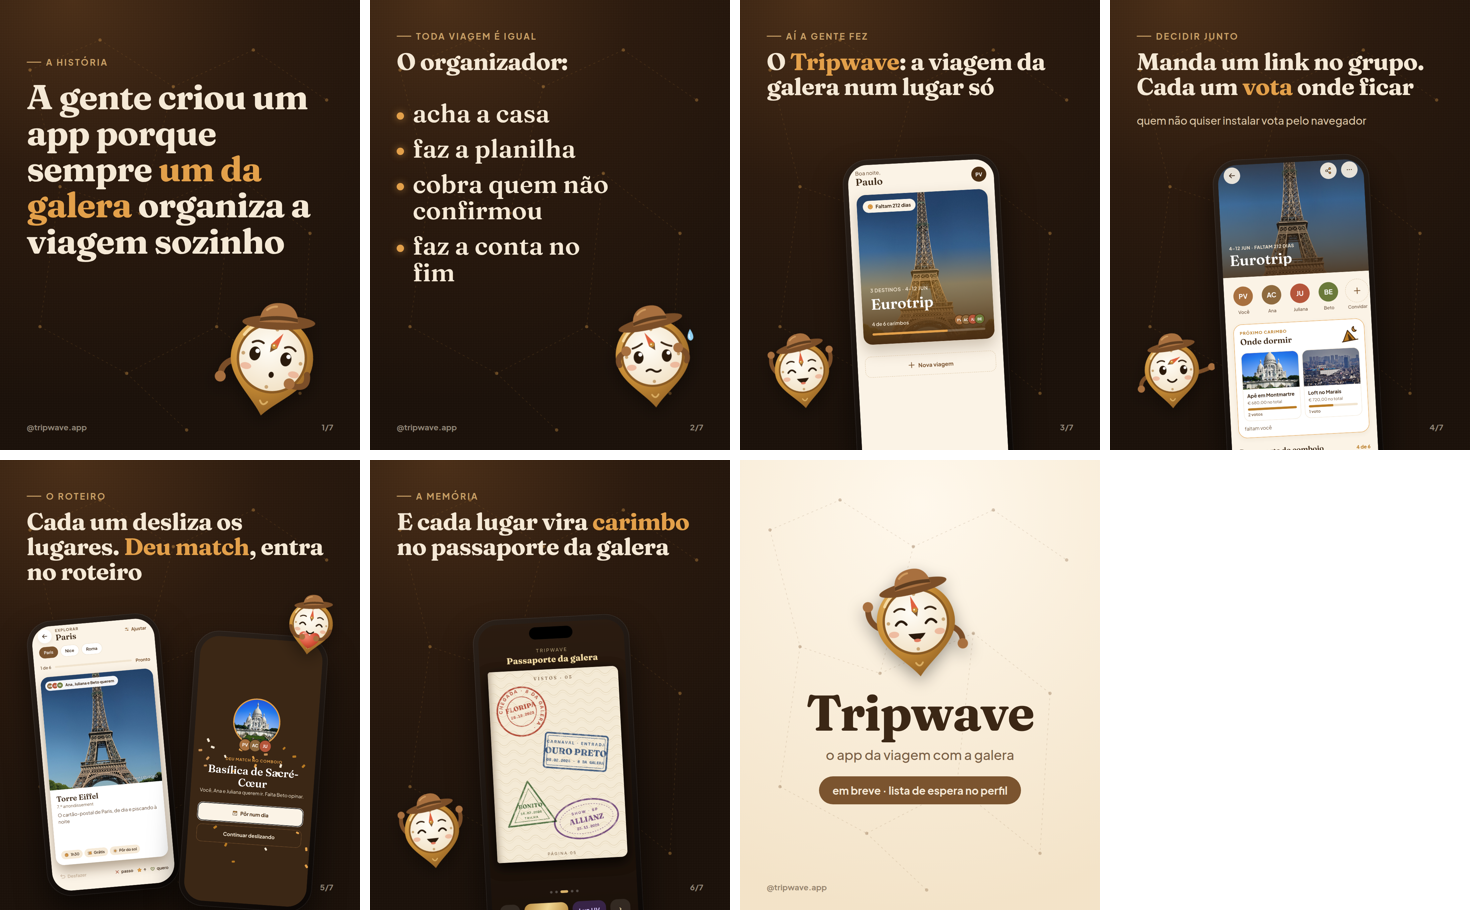
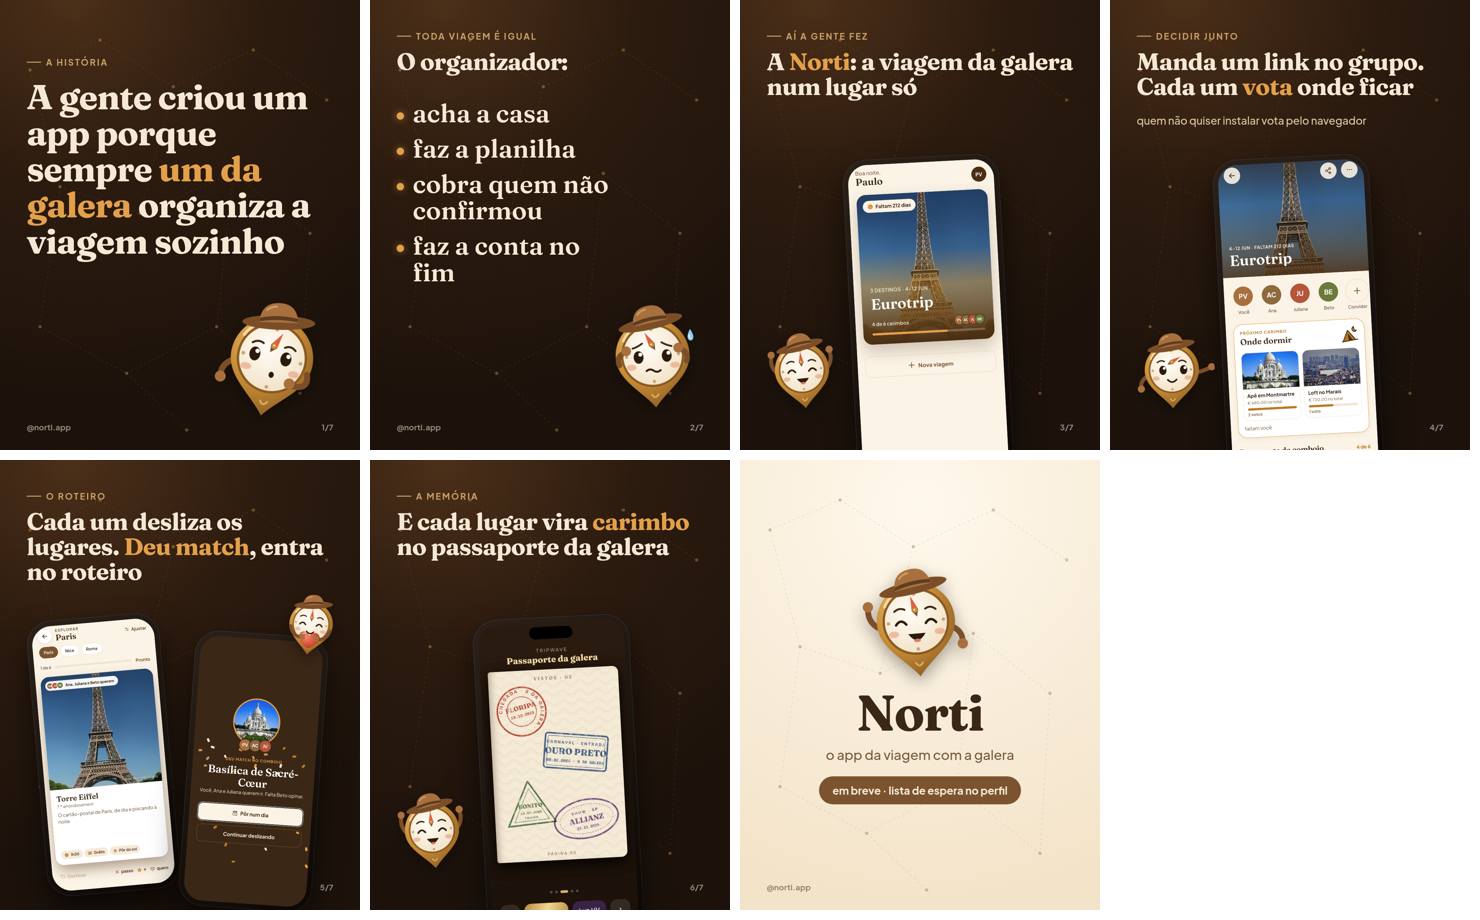
Nome novo do app: Norti (igual à mascote). Decisão no NOME-E-VOZ, AGENTS, bios, posts e carrosséis C0 e C1

diff --git a/docs/marketing/APRESENTAR-O-APP.md b/docs/marketing/APRESENTAR-O-APP.md
@@ -1,13 +1,13 @@
-# Posts que apresentam o Tripwave (estilo Loopou)
+# Posts que apresentam a Norti (estilo Loopou)
 
 *04/11/2026. Pedido do Victor: além dos vídeos do passaporte, posts que **apresentem e expliquem o app inteiro**, como faz o Instagram da Loopou (@loopou.ig), outro projeto da dupla. O passaporte entra como **uma** das funções, não como o centro. Segue o `docs/RUMO.md` e o tom de voz de `NOME-E-VOZ.md`. **Rascunho pra aprovar antes de produzir qualquer arte.***
 
 
 > **Formato agora (Victor, 04/11/2026): só foto e carrossel.** Vídeo fica pra depois. Os Reels (R1 a R4) estão guardados no fim deste arquivo; a história de origem virou o carrossel **C0**.
 
-## 1. O que a Loopou faz, traduzido pro Tripwave
+## 1. O que a Loopou faz, traduzido pra Norti
 
-| Padrão da Loopou | Exemplo dela | No Tripwave |
+| Padrão da Loopou | Exemplo dela | Na Norti |
 |---|---|---|
 | **Fundadores contando a história de origem** (sem rosto: voz + tela) | "Meu marido criou uma ferramenta que resolve uma parte chata de vender pelo Instagram" | "[relação] criou um app porque eu cansei de organizar a viagem da galera sozinha." A história real da dupla: quem organiza sempre, e o dev que resolveu. |
 | **Gancho de descoberta ou segredo (UGC)** | "Parei de pagar Manychat depois que descobri esse site" | "Parei de fazer planilha de viagem depois que descobri esse app." "Ninguém tá falando desse app de viagem com os amigos." |
@@ -26,7 +26,7 @@
 
 ---
 
-## 2. O que o Tripwave faz (a lista pra usar nos posts)
+## 2. O que a Norti faz (a lista pra usar nos posts)
 
 Na ordem em que a galera vive a viagem:
 
@@ -39,7 +39,7 @@ Na ordem em que a galera vive a viagem:
 7. **Fotos do grupo** num lugar só.
 8. **Passaporte da galera:** cada lugar vira carimbo, o mapa do grupo acende e a retrospectiva sai pronta pra postar.
 
-**Frase de apresentação (curta):** "O Tripwave é o app da viagem com a galera: do 'bora?' até o carimbo no passaporte do grupo."
+**Frase de apresentação (curta):** "A Norti é o app da viagem com a galera: do 'bora?' até o carimbo no passaporte do grupo."
 
 ---
 
@@ -50,14 +50,14 @@ Na ordem em que a galera vive a viagem:
 **C0. "A história" (a origem, o post fixado)** (7 slides)
 1. Capa: "A gente criou um app porque sempre um da galera organiza a viagem sozinho" + Norti.
 2. "Acha a casa. Faz a planilha. Cobra a confirmação. Faz a conta no fim."
-3. "Aí a gente fez o Tripwave."
+3. "Aí a gente fez a Norti."
 4. "Manda um link no grupo. Cada um vota onde ficar e o que fazer, sem instalar nada." + print do convite e do duelo de casas.
 5. "O roteiro sai dos votos. Os gastos se dividem sozinhos." + print do roteiro do dia.
 6. "E cada lugar vira carimbo no passaporte da galera." + passaporte com carimbos.
 7. "Em breve. Lista de espera no perfil." + Norti acenando.
 
-**C1. "O que é o Tripwave?"** (7 slides)
-1. Capa: "O que é o Tripwave?" + Norti acenando.
+**C1. "O que é a Norti?"** (7 slides)
+1. Capa: "O que é a Norti?" + Norti acenando.
 2. "O app da viagem com a galera: do 'bora?' até o carimbo no passaporte."
 3. "1. Manda um link. Todo mundo topa sem instalar."
 4. "2. Cada um desliza os lugares. Deu match, entra no roteiro."
@@ -68,7 +68,7 @@ Na ordem em que a galera vive a viagem:
 **C2. "Sua galera ainda decide a viagem num grupo com 300 mensagens?"** (5 slides)
 1. A pergunta, grande.
 2. "O link da casa se perde. A enquete ninguém responde."
-3. "No Tripwave cada um vota em 1 toque, e o grupo vê o placar."
+3. "Na Norti cada um vota em 1 toque, e o grupo vê o placar."
 4. Print do duelo de casas com os votos.
 5. "Em breve. Lista de espera no perfil."
 
@@ -84,23 +84,23 @@ Na ordem em que a galera vive a viagem:
 2. "Você acha a casa."
 3. "Você cobra a confirmação."
 4. "Você faz a conta no fim."
-5. "No Tripwave a galera vota, o roteiro sai dos votos e a conta se faz sozinha."
+5. "Na Norti a galera vota, o roteiro sai dos votos e a conta se faz sozinha."
 6. "E você ganha o passaporte de todas as viagens de vocês." + passaporte.
 
 ### Comparação
 
-**K1. "Grupo do zap x Tripwave"** (carrossel: cada slide é uma linha da tabela, com o caos à esquerda e o app à direita)
-| Grupo do zap | Tripwave |
+**K1. "Grupo do zap x Norti"** (carrossel: cada slide é uma linha da tabela, com o caos à esquerda e o app à direita)
+| Grupo do zap | Norti |
 |---|---|
 | 40 links de casa perdidos | As casas lado a lado, com votos |
 | Enquete que ninguém responde | Voto em 1 toque, até sem instalar |
 | Planilha no fim | "jantar 84" e pronto |
 | As fotos espalhadas | Fotos e passaporte do grupo |
 
-**K2. "Planilha, Splitwise e Tripwave"** (carrossel)
+**K2. "Planilha, Splitwise e Norti"** (carrossel)
 - "Planilha: dá trabalho e só uma pessoa mexe."
 - "Splitwise: divide a conta, mas não decide a viagem. E o grátis limita quantos gastos por dia." *(Conferir o limite atual antes de postar: na pesquisa as fontes dão de 3 a 4 por dia.)*
-- "Tripwave: decide, organiza, divide e guarda a viagem no passaporte da galera."
+- "Norti: decide, organiza, divide e guarda a viagem no passaporte da galera."
 - **Cuidado:** não usar a logo do Splitwise. Só o nome e um fato que dá pra conferir.
 
 ### Série com número real
@@ -108,7 +108,7 @@ Na ordem em que a galera vive a viagem:
 **E1. "Do 0 ao primeiro grupo viajando, episódio 1"** (carrossel de 4 slides, toda semana)
 - **Slide 1:** "Do 0 ao primeiro grupo viajando com o nosso app · episódio 1"
 - **Slides 2 a 4:**
-  > Hoje o Tripwave tem [N] pessoas na lista de espera e [N] grupos testando.
+  > Hoje a Norti tem [N] pessoas na lista de espera e [N] grupos testando.
   > Essa semana a gente [1 coisa que fez] e [1 coisa que deu errado].
   > Semana que vem: [1 meta].
 - **Regra:** só número verdadeiro, mesmo se for pequeno. A Loopou começou com "13 clientes ativos".
@@ -118,7 +118,7 @@ Na ordem em que a galera vive a viagem:
 
 ## 4. Por onde começar (sugestão)
 
-1. **C0 ("A história")** fixado no perfil e **C1 ("O que é o Tripwave?")** como o 2º post. São os dois que explicam o app pra quem chega no perfil.
+1. **C0 ("A história")** fixado no perfil e **C1 ("O que é a Norti?")** como o 2º post. São os dois que explicam o app pra quem chega no perfil.
 2. **E1, episódio 1** no mesmo dia, no Instagram e no X.
 3. Depois, 1 carrossel de dor (C2, C3, C4) e 1 comparação (K1, K2) por semana.
 
@@ -142,7 +142,7 @@ Na ordem em que a galera vive a viagem:
   > Aí [ele/ela] fez isso aqui. *(a tela do app aparece)*
   > Eu mando um link no grupo, cada um vota onde quer ficar e o que quer fazer, e no fim tá tudo num lugar só.
   > E ainda fica um passaporte da galera com todas as viagens que a gente fez.
-  > Chama Tripwave. Tá saindo. Lista de espera no perfil.
+  > Chama Norti. Tá saindo. Lista de espera no perfil.
 - **Imagem:** o grupo do zap explodindo de mensagens → a mão segurando o celular com o app organizado (só a mão ou a tela gravada) → o passaporte abrindo com os carimbos. A Norti aparece no canto reagindo e acena no fim.
 
 **R2. "Parei de fazer planilha de viagem"**

diff --git a/docs/marketing/NOME-E-VOZ.md b/docs/marketing/NOME-E-VOZ.md
@@ -1,8 +1,31 @@
 # Nome e tom de voz
 
-*02/11/2026. Triagem inicial feita pelo Claude. **Nada aqui confirma que um nome está livre**: veja "Checagens obrigatórias" no fim.*
+*02/11/2026, atualizado em 04/11/2026 (nome novo: Norti). Triagem inicial feita pelo Claude. **Nada aqui confirma que um nome está livre**: veja "Checagens obrigatórias" no fim.*
 
-## ✅ Decisão: **Tripwave**
+## ✅ Decisão: **Norti** (04/11/2026)
+
+O app passa a ter **o nome da mascote**, como o Duolingo e o Duo. Decidido pelo Victor em 04/11/2026, depois que o rumo do produto virou o **Passaporte da galera** (`docs/RUMO.md`): uma bússola chamada Norti, de "norte", combina com passaporte, mapa e carimbo. O Tripwave valeu de 02 a 04/11 e ainda aparece nos docs antigos.
+
+**Como escrever:** "a Norti", no feminino, tanto pra mascote quanto pro app (a personagem *é* o app). Ex.: "baixa a Norti", "a Norti carimbou Paraty".
+
+**Triagem do Norti (NÃO CONFIRMADA, checada em 04/11/2026):**
+
+| Item | Situação |
+|---|---|
+| App Store | Nenhum app com o nome |
+| norti.com, norti.com.br | **têm DNS (provavelmente ocupados)** |
+| norti.app, getnorti.com, nortiapp.com, norti.travel | sem DNS (podem estar livres) |
+| @ nas redes | **não conferido** |
+| INPI | **não conferido** (classes 9, 39, 42) |
+| Inglês britânico | soa como "naughty" (levado). Pro Brasil não pesa |
+
+**@ sugeridos:** `@nortiapp` no X (o X não aceita ponto) e `@norti.app` no Instagram e no TikTok, batendo com o domínio **norti.app**. Ficar de olho no norti.com.br pra comprar quando der.
+
+**O que fica igual:** os nomes internos "together" (pacote, chaves, link do app, endereço da Vercel) e o repositório Triply. Trocar o nome que aparece no app e no site (título, ícone, loja) é tarefa de uma sessão de dev.
+
+---
+
+## Antes: **Tripwave** (02 a 04/11/2026)
 
 Escolhido pela dupla em 02/11/2026, depois de 6 rodadas (histórico abaixo).
 
@@ -237,4 +260,4 @@ A ideia: o app ter o nome da bússola, como o Duolingo e o Duo. O mascote vira a
 
 **Descartados:** Nori (9 apps, uma marca de viagem com o nome), Navi (6 apps, um de viagem), Compi (app de viagem com o nome), Norte (app de cartão de crédito), TrueNorth, Polo, Rosa, Needle, Sola. **Bussy** e "Bussi": em inglês é gíria vulgar.
 
-**Status:** em discussão. Tripwave continua sendo o nome até a dupla decidir.
+**Status:** ✅ **decidido em 04/11/2026: Norti** (ver o topo deste arquivo).

diff --git a/docs/HANDOFF-marketing.md b/docs/HANDOFF-marketing.md
@@ -1,4 +1,4 @@
-# HANDOFF: marketing do Tripwave
+# HANDOFF: marketing da Norti (antes Tripwave)
 
 *02/11/2026. Sessão de marketing (sem código: código e banco ficam com as sessões de dev).*
 
@@ -30,6 +30,8 @@
 - Quadro de design da Norti: https://claude.ai/artifact/GU32RoWEYJWRyuM8t1hCoP (sem cópia no repo: salvar o HTML em `docs/marketing/` antes de apagar)
 
 ## Pendente
+
+000000. **04/11/2026: o app se chama NORTI** (igual à mascote; decisão do Victor, registrada no topo de `NOME-E-VOZ.md`). Escrever "a Norti" no feminino pro app também. Já trocados: bios e posts (`CONTEUDO-PASSAPORTE.md`, `APRESENTAR-O-APP.md`), carrosséis C0 e C1 (gerados de novo) e AGENTS.md. Docs antigos ainda dizem Tripwave (histórico). **A fazer:** a dupla registra **norti.app** (+ getnorti.com), confere e cria **@nortiapp** (X) e **@norti.app** (Instagram e TikTok) e busca "Norti" no INPI; **sessão de dev** troca o nome que aparece no app e no site (título, ícone, loja, texto "Tripwave" nas telas e no protótipo `teste/ancora/passaporte.html`), sem mexer nos nomes internos "together".
 
 00000. **04/11/2026: C0 ("A história") e C1 ("O que é o Tripwave?") prontos pra aprovar**, 7 slides cada, 1080×1350, em `slides/saida/C0` e `C1` (prévia em `previa.png`). Visual do vídeo do app: fundo de couro com mapa de rota, título com palavra em destaque, celular com tela real e Norti. Gerador: `node docs/marketing/slides/apresentar.mjs C0` (os textos ficam no próprio arquivo). As telas vêm de `docs/marketing/video/gravacoes/telas/`, que não vai pro git: pra gerar de novo, subir o Expo web na 8089 e rodar `node telas.mjs` dentro de `docs/marketing/video` (modo demonstração, sem banco). As páginas do passaporte são do protótipo `teste/ancora/passaporte.html`.
 

diff --git a/docs/marketing/CONTEUDO-PASSAPORTE.md b/docs/marketing/CONTEUDO-PASSAPORTE.md
@@ -20,11 +20,11 @@ Agora o produto **é um objeto que dá vontade de postar**: o passaporte com os 
 
 | Rede | Bio | Caracteres |
 |---|---|---|
-| X `@tripwaveapp` | `O passaporte da sua galera: cada viagem e rolê vira carimbo e o mapa do grupo acende. Feito por uma dupla, em público. Em breve 🧭` | 129/160 |
-| Instagram `@tripwave.app` | `O mapa das viagens e rolês da sua galera 🧭` / `Cada lugar vira carimbo no passaporte do grupo.` / `Entra na lista 👇` | 107/150 |
-| TikTok `@tripwave.app` | `Quantos lugares sua galera já carimbou? 🧭` | 41/80 |
+| X `@nortiapp` | `O passaporte da sua galera: cada viagem e rolê vira carimbo e o mapa do grupo acende. Feito por uma dupla, em público. Em breve 🧭` | 129/160 |
+| Instagram `@norti.app` | `O mapa das viagens e rolês da sua galera 🧭` / `Cada lugar vira carimbo no passaporte do grupo.` / `Entra na lista 👇` | 107/150 |
+| TikTok `@norti.app` | `Quantos lugares sua galera já carimbou? 🧭` | 41/80 |
 
-**Nome no Instagram:** Tripwave | passaporte da galera.
+**Nome no Instagram:** Norti | passaporte da galera.
 
 ---
 
@@ -49,7 +49,7 @@ Feitos por código, com a mesma máquina do vídeo do app (`docs/marketing/video
 
 ## 3. X (build in public)
 
-Valem as lições do X: número verdadeiro na 1ª linha, bastidor que dá pra salvar, o processo virando post. Do Victor e da Ingryd, com o `@tripwaveapp` repostando.
+Valem as lições do X: número verdadeiro na 1ª linha, bastidor que dá pra salvar, o processo virando post. Do Victor e da Ingryd, com o `@nortiapp` repostando.
 
 **X1 (a virada, o melhor post que temos):**
 > ontem a gente mudou o app inteiro

diff --git a/AGENTS.md b/AGENTS.md
@@ -1,4 +1,4 @@
-# AGENTS.md — Tripwave
+# AGENTS.md — Norti
 
 Regras pra qualquer assistente de IA (Claude Code, Cursor, Codex) que trabalhar neste projeto.
 
@@ -148,5 +148,5 @@ Cada passo de uma conversa longa reprocessa o histórico inteiro: é o que mais 
 - Concorrentes: `docs/benchmark.md`
 - Glossário pra Ingryd: `docs/glossario.md`
 - Guia "como pedir coisas pro Claude": `docs/COMO-TRABALHAR.md`
-- O nome do produto é **Tripwave** (decidido em 02/11/2026; antes foi "Triply" e "Together"). Ver `docs/marketing/NOME-E-VOZ.md`.
+- O nome do produto é **Norti**, igual à mascote (decidido em 04/11/2026; antes foi "Tripwave", "Triply" e "Together"). Docs antigos ainda dizem Tripwave. Ver `docs/marketing/NOME-E-VOZ.md`.
 - Nomes internos continuam com "together" de propósito: pacote `@together/core`, chaves `together:*` no navegador, caches, link `together://` do app e o endereço `together-viagem.vercel.app`. Trocar esses quebra login, convites e dados salvos. O repositório no GitHub continua se chamando Triply.
